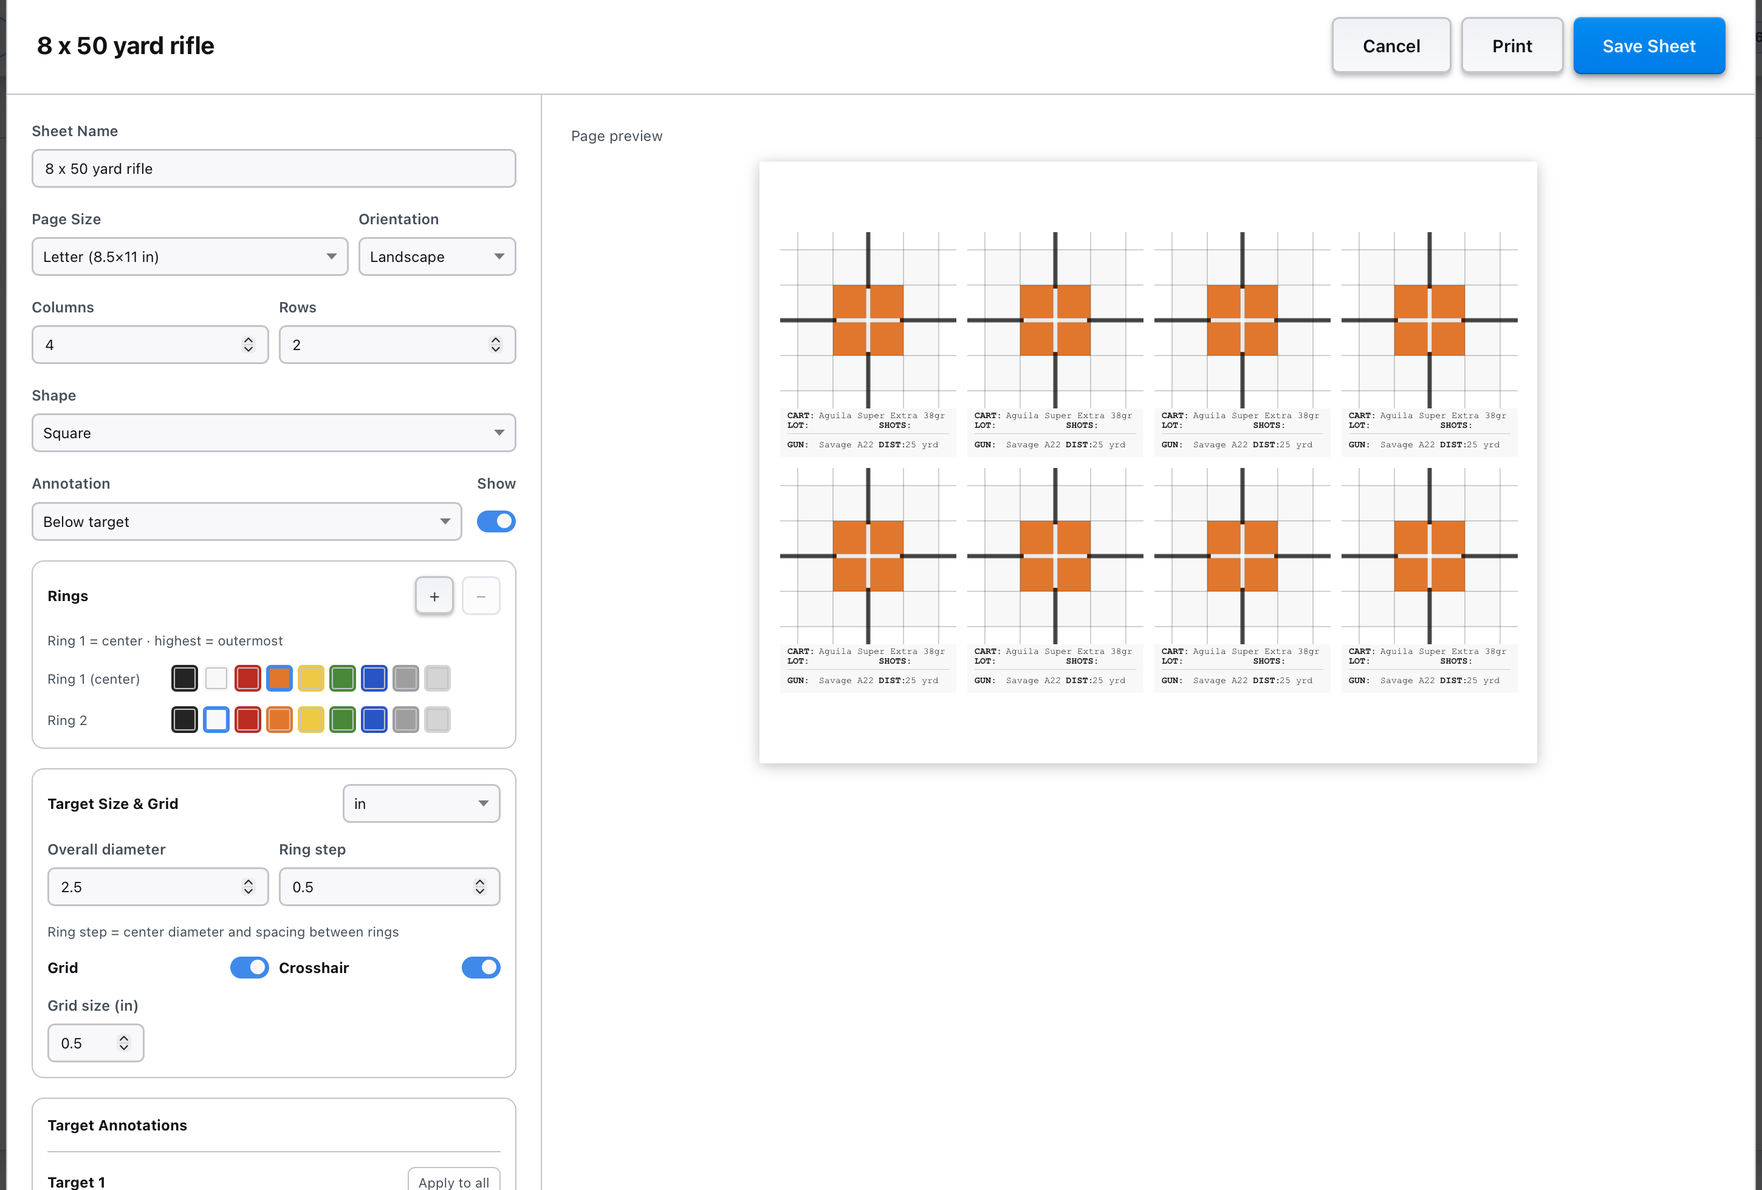
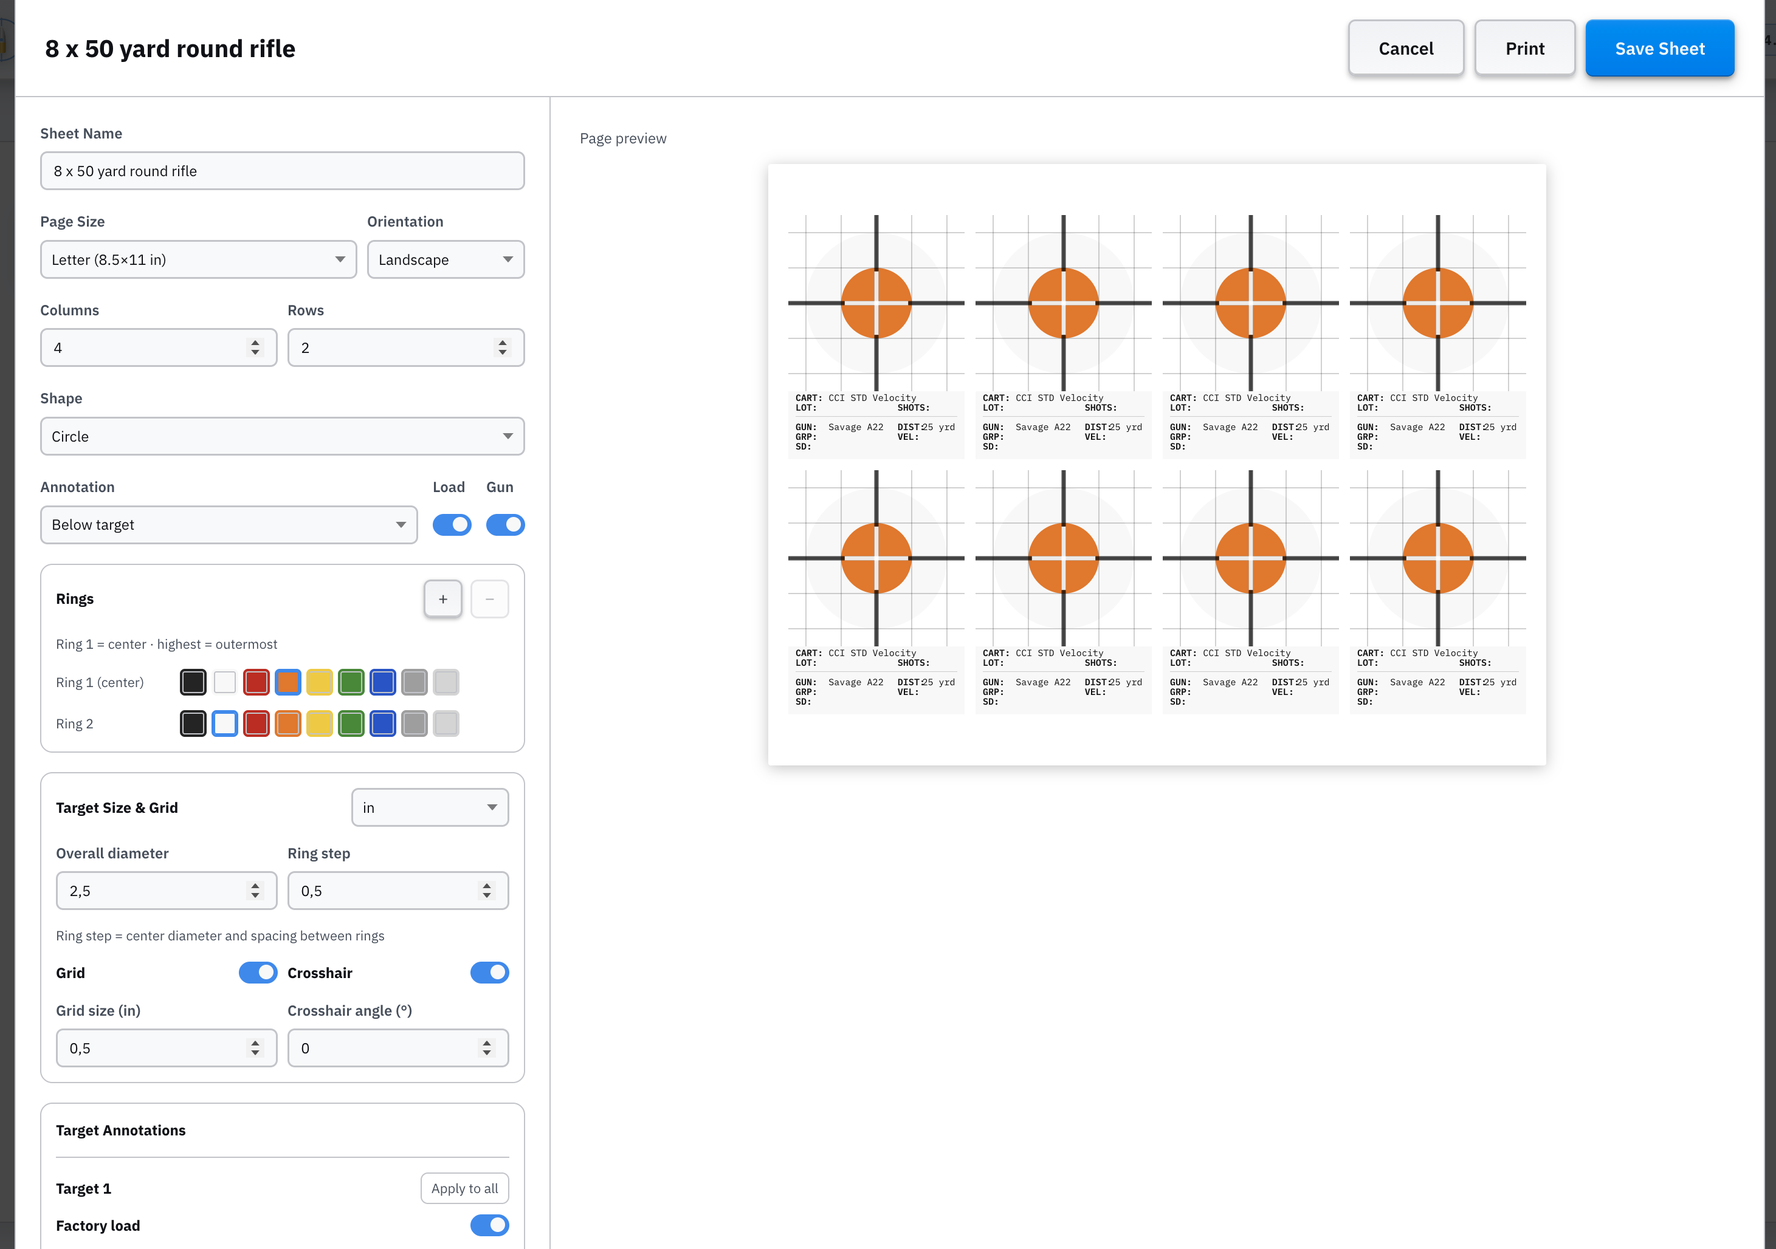
Added shotgun information and target generator filter gun and ammo

diff --git a/README.md b/README.md
@@ -1,4 +1,4 @@
-# Reloading Tracker 2.13.1: User Guide
+# Reloading Tracker 2.14.2: User Guide
 
 Reloading Tracker is your complete bench-to-range companion. It starts as a production log: define your loads, record every pressing session with a unique lot number, and print a label for every box on your shelf. And it grows with you from there.
 
@@ -7,7 +7,7 @@ Manage a shared component inventory, work up new loads with a structured charge 
 If you also care about the economics, the app can do that too. Compare the cost of your reloads against factory ammunition, track your progress toward break-even after equipment investment, and get a side-by-side cost breakdown across any combination of loads. Totally optional though -- plenty of reloaders just want the log and the data.
 
 
-> **DOWNLOAD:** A desktop version is available from the releases page: [**latest version**](https://github.com/fmalpartida/reloading-cost-calculator/releases/tag/v2.13.1). All previous version are available [here](https://github.com/fmalpartida/reloading-cost-calculator/releases).
+> **DOWNLOAD:** A desktop version is available from the releases page: [**latest version**](https://github.com/fmalpartida/reloading-cost-calculator/releases/tag/v2.14.2). All previous version are available [here](https://github.com/fmalpartida/reloading-cost-calculator/releases).
 
 
 Want to try it out first?
@@ -44,6 +44,7 @@ Enjoying Reloading Tracker? Every cup of coffee you send my way helps keep the p
    - [Load Status](#load-status)
    - [Default Taxes & Fees](#24-default-taxes--fees)
    - [Charge Workup (Load Development)](#25-charge-workup-load-development)
+   - [Shotshells](#26-shotshells)
 3. [My Components](#3-my-components)
    - [Adding a Component](#31-adding-a-component)
    - [Managing Components](#32-managing-components)
@@ -165,7 +166,7 @@ The application has seven main tabs accessible from the navigation bar at the to
 | Tab | Purpose |
 |-----|---------|
 | **My Ammo** | Library of all your ammo entries: reloads and factory |
-| **My Components** | Global catalog of reloading components: powders, primers, bullets, and brass |
+| **My Components** | Global catalog of reloading components: powders, primers, bullets, and brass, plus hulls, wads, shot, and slugs for shotshells |
 | **Firearms** | Registry of your firearm profiles: type, caliber, action, barrel, and twist data, plus a photo, serial number, price, and mounted optic details |
 | **Journal** | Log pressing sessions with auto-incrementing lot numbers, dates, quantities, and notes |
 | **Range Log** | Record range sessions: firearm, distance, lots fired, round counts, performance notes |
@@ -196,7 +197,7 @@ Move the tabs in the application to customize your workflow. Hide those parts of
 
 ## 2. My Ammo
 
-The **My Ammo** tab is where you build and maintain your ammunition library. Entries are grouped by type: reloads first, then factory ammo (sorted cheapest to most expensive within each group). Each group has a colored section header with a **+** button to add a new entry of that type directly.
+The **My Ammo** tab is where you build and maintain your ammunition library. Entries are grouped by type: reloads first, then factory ammo (sorted cheapest to most expensive within each group). Each group has a colored section header with a **+** button to add a new entry of that type directly. Within each group, entries are split into **Handgun**, **Rifle**, and **Shotgun** categories, with anything that can't be placed under **Uncategorized**.
 
 ![Screenshot: My Ammo tab showing reload and factory cards](./images/my-ammo.png)
 
@@ -207,6 +208,8 @@ Click **Add Ammo** in the top-right corner of the My Ammo tab, or click the **+*
 **Ammo Information**
 - **Name**: identifies the cartridge. Required.
 - **Load Type**: Reload or Factory.
+- **Ammo Class**: Metallic Cartridge or Shotshell. Picking Shotshell switches the form to shotshell components, see [Shotshells](#26-shotshells).
+- **Category**: Handgun, Rifle, or Shotgun. Groups the entry in My Ammo and narrows the caliber list to that category. It fills in from the caliber until you pick one yourself.
 - **Status**: the development state of the load. See [Load Status](#load-status) below.
 - **Caliber**: the cartridge designation (e.g. *9mm Luger*, *.308 Win*). This is added when defining the bullet.
 - **COAL**: cartridge overall length for this load. Printed on the lot label.
@@ -428,6 +431,33 @@ Click **Apply to All** to update every existing entry in your library with the c
 
 You can also reset taxes to defaults on a per-entry basis using the **Reset to defaults** link inside the Editor.
 
+### 2.6 Shotshells
+
+Set **Ammo Class** to **Shotshell** in the Editor to track shotgun reloads or factory shells. The **Caliber** field becomes **Gauge** (*12 ga*, *20 ga*, *.410 bore*, and so on), and two more fields appear: **Shell Length** (e.g. *2-3/4"* or *70 mm*) and **Projectile**, which is **Shot**, **Buckshot**, or **Slug**.
+
+**Reloaded shotshells**
+
+The reload form swaps the cartridge sections for shotshell ones:
+
+- **Powder** and **Primers** work exactly as for metallic loads.
+- **Shot / Buckshot** (shot and buckshot loads): description, material (lead, plated lead, steel, bismuth, tungsten), shot size, pellet count for buckshot, price per lb or kg, and the **Payload** per shell. Payload is in ounces for Imperial and grams for Metric, the way US and European manuals list it.
+- **Slug** (slug loads): description, weight in grains, price, and the quantity that price covers.
+- **Wads**: description, type (plastic, fiber, custom), price, and the quantity that price covers.
+- **Hulls**: replaces Brass / Cases, with the same price, quantity, and times-reloaded fields.
+- **Crimp** and **Published Velocity** are optional recipe notes. COAL, CBTO, and the Charge Ladder don't apply to shotshells and are hidden.
+
+Hull, wad, shot, and slug can all be picked from My Components like any other component (see [3.3](#33-linking-inventory-to-loads)). Hulls, wads, and slugs saved with a gauge only show up for loads of that gauge. The cost breakdown on the card and in the Live Preview lists the shot, wad, and hull cost per shell.
+
+<!-- IMAGE NEEDED: images/shotshell-editor.png, Editor with Ammo Class set to Shotshell showing the Shot, Wads, and Hulls sections -->
+
+**Factory shotshells**
+
+Factory entries take the same gauge, shell length, and projectile, plus optional payload, shot material and size, pellet count, slug weight, **Dram Equivalent**, and **Velocity**. Pricing, taxes, and stock work as for any factory ammo (see [2.2](#22-adding-a-factory-ammo-entry)).
+
+<!-- IMAGE NEEDED: images/shotshell-card.png, expanded shotshell card in My Ammo showing shot, wad, and hull costs -->
+
+> Shotshell recipes are tested as an exact combination of hull, primer, powder, wad, and payload. Don't swap any one of them without published data for the new combination.
+
 ---
 
 ## 3. My Components
@@ -436,7 +466,7 @@ The **My Components** tab is a global catalog of reloading components. Instead o
 
 ![Screenshot: My Components tab showing grouped components with filter tags](./images/my-inventory.png)
 
-Components are organised into four types: **Powder**, **Primer**, **Bullet**, and **Brass**. They are displayed in grouped sections, each with a colored left-border accent that matches the component's icon.
+Components are organised into eight types: **Powder**, **Primer**, **Bullet**, and **Brass** for cartridges, plus **Hull**, **Wad**, **Shot**, and **Slug** for shotshells. They are displayed in grouped sections, each with a colored left-border accent that matches the component's icon.
 
 **Filter tags** at the top of the list let you narrow the view to a single type at a glance; click a tag to activate it, click again to clear the filter.
 
@@ -453,7 +483,7 @@ Click **Add Component** in the top-right corner, or click the small **+** button
 The form is organised into labeled sections - **Basics** for every type (plus **Specs** and **Pricing** for bullets), and for brass, **Consistency & Fit** and **Annealing** on top of Basics - followed by a shared **Stock** section at the end.
 
 **Component Type**  
-Choose one of the four types using the selector buttons at the top of the form. Once a component is saved the type cannot be changed; duplicate it and delete the original if you need a different type.
+Choose one of the eight types using the selector buttons at the top of the form. Once a component is saved the type cannot be changed; duplicate it and delete the original if you need a different type.
 
 **Name / Description** *(required)*  
 A descriptive label, e.g. *Titegroup*, *CCI 500 Small Pistol*, *124gr FMJ RN*, *Mixed once-fired 9mm*.
@@ -462,14 +492,22 @@ A descriptive label, e.g. *Titegroup*, *CCI 500 Small Pistol*, *124gr FMJ RN*, *
 Upload a photo of the component (HEIC photos from iPhone are converted automatically). It's resized and compressed for storage, then shown as a thumbnail on the card or in the table's Photo column - see [3.2](#32-managing-components) below. Click **Remove** to clear it.
 
 **Price** *(required)*  
-The price you paid for the component. For powders this is the price per pound (Imperial) or per kilogram (Metric). For all other types it is the total price for the quantity below.
+The price you paid for the component. For powder and shot this is the price per pound (Imperial) or per kilogram (Metric). For all other types it is the total price for the quantity below.
 
 **Quantity / Weight** *(required)*  
-- *Powder*: the weight the price covers (lbs or kg). A 1 lb jug entered at $28.99/1 lb stores as $28.99/lb; a 4 lb jug entered at $89.99/4 lb also resolves to the correct per-lb rate when used in a load.
-- *Primer, Bullet, Brass*: the number of units the price covers (e.g. 100 primers for $15.99).
+- *Powder, Shot*: the weight the price covers (lbs or kg). A 1 lb jug entered at $28.99/1 lb stores as $28.99/lb; a 4 lb jug entered at $89.99/4 lb also resolves to the correct per-lb rate when used in a load.
+- *Primer, Bullet, Brass, Hull, Wad, Slug*: the number of units the price covers (e.g. 100 primers for $15.99).
 
-**Measurement System** *(powder only)*  
-Select **Imperial (lb)** or **Metric (kg)**. This carries through to any load that links to this powder.
+**Measurement System** *(powder and shot)*  
+Select **Imperial (lb)** or **Metric (kg)**. This carries through to any load that links to this component.
+
+**Shotshell specs** *(optional)*  
+- *Hull*: **Gauge**, **Shell Length**, and **Times Reloaded** (required, same as brass).
+- *Wad*: **Gauge** and **Wad Type**.
+- *Shot*: **Material** and **Shot Size**.
+- *Slug*: **Gauge** and **Weight (grains)**.
+
+Setting a gauge on a hull, wad, or slug limits it to loads of that gauge in the Editor's inventory dropdown.
 
 **OAL (Overall Length)** *(bullet only, optional)*  
 The bullet's overall length, with a unit dropdown (**in** or **mm**) next to it. The unit defaults to your app's Imperial/Metric setting; switching it converts the number you've already entered instead of just relabeling it, e.g. *1.169 in* becomes *29.6926 mm*.
@@ -492,8 +530,8 @@ Optional free-text field for suppliers or any other reference.
 
 **Stock on hand** *(optional)*  
 The current quantity you have in stock. The unit depends on the component type:
-- *Powder*: weight in lb or kg (matching the measurement system you selected)
-- *Primer, Bullet, Brass*: individual count
+- *Powder, Shot*: weight in lb or kg (matching the measurement system you selected)
+- *Primer, Bullet, Brass, Hull, Wad, Slug*: individual count
 
 Leave this field blank if you do not want to track stock for this component. Only components with a stock quantity set are visible to the journal deduction feature.
 
@@ -532,7 +570,7 @@ Each component card has three action buttons:
 
 ![Screenshot: Inventory card action buttons](./images/inventory-card-actions.png)
 
-In **Table view**, the **Stock** column shows the current quantity on hand for each component, formatted with a unit suffix (*primers*, *rounds*, *cases*, *lb*, or *kg*). Components with no stock quantity set show a dash (-). A **Low** badge appears in the same cell when stock is at or below the threshold. The **Lot #** column next to it shows each component's lot number, or a dash when none is set.
+In **Table view**, the **Stock** column shows the current quantity on hand for each component, formatted with a unit suffix (*primers*, *rounds*, *cases*, *hulls*, *wads*, *slugs*, *lb*, or *kg*). Components with no stock quantity set show a dash (-). A **Low** badge appears in the same cell when stock is at or below the threshold. The **Lot #** column next to it shows each component's lot number, or a dash when none is set.
 
 For brass, an **Info** column shows the same Consistency & Fit / Annealing icon buttons as the card view, keeping the table compact instead of adding a separate column per field.
 
@@ -550,11 +588,11 @@ Components with a photo (see [3.1](#31-adding-a-component)) show it as a thumbna
 
 **Cash-in-hand totals**
 
-Each category header (Powders, Primers, Bullets, Brass) shows that category's total stock value (quantity on hand × price) next to its item count. A grand total across all categories appears at the top of the page next to the filter tags. Both use your configured currency symbol and update automatically as stock levels or prices change.
+Each category header (Powders, Primers, Bullets, Brass, and so on) shows that category's total stock value (quantity on hand × price) next to its item count. A grand total across all categories appears at the top of the page next to the filter tags. Both use your configured currency symbol and update automatically as stock levels or prices change.
 
 ### 3.3 Linking Inventory to Loads
 
-When editing or creating a reload in the **Editor** tab, each component section (Powder, Primers, Bullets, Brass) has a **Select from inventory** dropdown above the manual input fields. Choosing an item from that dropdown fills all the related fields automatically and marks the component with a **linked badge**.
+When editing or creating a reload in the **Editor** tab, each component section (Powder, Primers, Bullets, Brass, and for shotshells Shot, Slug, Wads, Hulls) has a **Select from inventory** dropdown above the manual input fields. Choosing an item from that dropdown fills all the related fields automatically and marks the component with a **linked badge**.
 
 ![Screenshot: Load editor with inventory dropdown and linked badge](./images/inventory-link-badge.png)
 
@@ -594,7 +632,7 @@ Click **Add Firearm** in the top-right corner of the Firearms tab. The dialog is
 | **Name** | Yes | A descriptive label for the firearm, e.g. *Remington 700 SPS*, *Glock 17 Gen 5*. |
 | **Firearm Type** | No | Broad category: **Rifle**, **Handgun**, **Shotgun**, or **Other**. |
 | **Action Type** | No | Operating mechanism: **Bolt**, **Semi-Auto**, **Lever**, **Pump**, **Single Shot**, **Revolver**, or **Other**. |
-| **Caliber** | No | The cartridge the firearm is chambered in, e.g. *.308 Win*, *9mm Luger*. Used for grouping and caliber filter chips. |
+| **Caliber** | No | The cartridge the firearm is chambered in, e.g. *.308 Win*, *9mm Luger*, *12 ga*. The list follows the Firearm Type (handgun, rifle, or shotgun calibers). Used for grouping and caliber filter chips. |
 | **Barrel Length** | No | Free text, e.g. *24 in*, *16.5"*. |
 | **Twist Rate** | No | Rifling twist rate, e.g. *1:10*, *1:8*. Relevant for bullet stabilisation in load development. |
 | **Photo** | No | Upload a photo of the firearm (HEIC photos from iPhone are converted automatically). It's resized and compressed for storage, then shown as a thumbnail everywhere the firearm appears - see 4.4 and 4.5 below. Click **Remove** to clear it. |
@@ -700,6 +738,10 @@ Click **Log Entry** at the top right of the entries card to open the session dia
 
 The next available lot number is shown at the top of the dialog and is assigned automatically when you save. Click **Save Entry** to log the session. The new entry appears at the top of the list and the lot counter advances.
 
+For a shotshell load the dialog adapts: COAL and CBTO overrides are hidden, **Brass override** becomes **Hull override** (picked from your hulls), and the lot fields become powder, primer, shot (or slug), wad, and hull.
+
+<!-- IMAGE NEEDED: images/shotshell-journal.png, Journal entry dialog for a shotshell load showing the Hull override and shotshell lot fields -->
+
 Component lots are only filled in automatically for new entries. Entries logged before this feature existed stay blank, since today's lots may not be the ones you used back then; edit an entry to add them by hand if you know them.
 
 ![Screenshot: journal edit dialog showing the charge, COAL, and brass override fields](./images/journal-editor.png)
@@ -728,10 +770,11 @@ When a reload entry is linked to components in My Components that have a **Stock
 
 | Component | Amount deducted |
 |-----------|----------------|
-| Powder | Weight used: `(rounds × charge in grains) ÷ 7000` lb, or `÷ 15432.4` kg for metric. If the entry has a charge override, that value is used instead of the recipe default. |
-| Primer | 1 per round (`quantity`) |
-| Bullet | 1 per round (`quantity`) |
-| Brass | 1 per round (`quantity`). If the entry has a **Brass override**, the matching inventory item is found by name rather than by the linked ID. |
+| Powder | Weight used: `(rounds × charge in grains) ÷ 7000` lb, or `(rounds × charge in grams) ÷ 1000` kg for metric. If the entry has a charge override, that value is used instead of the recipe default. |
+| Shot | Weight used: `(shells × payload in oz) ÷ 16` lb, or `(shells × payload in grams) ÷ 1000` kg for metric. |
+| Primer, Wad | 1 per round (`quantity`) |
+| Bullet, Slug | 1 per round (`quantity`) |
+| Brass, Hull | 1 per round (`quantity`). If the entry has a **Brass** or **Hull override**, the matching inventory item is found by name rather than by the linked ID. |
 
 After a successful deduction, the button changes to a **✓ Stock** badge. Click the badge to **return** the stock (undo the deduction). This is useful if you made a mistake or need to adjust quantities before re-deducting.
 
@@ -1227,7 +1270,7 @@ Click **New Target Sheet** in the page header to open the designer with a blank 
 | **Orientation** | Portrait or Landscape. |
 | **Columns × Rows** | Number of targets across and down the page (1–4 each). A 2 × 3 layout prints 6 targets per page. |
 | **Shape** | Target shape: Circle, Square, or Diamond. |
-| **Show Annotation** | Whether to print load/firearm annotation labels on each target slot. |
+| **Annotation: Load / Gun** | Two toggles: **Load** prints the load details (lot, components, shots) and **Gun** prints the firearm, distance, and result fields. Turn off both to print a bare target. |
 | **Annotation position** | Whether annotation text appears inside the rings or outside below the target. |
 
 Click **Save Sheet** to save or **Cancel** to discard changes. The **Print** button in the designer header opens the print dialog directly from the editor.
@@ -1263,7 +1306,7 @@ Enable **Show Grid** to print a background grid over each target; useful as a vi
 
 #### 7.3.4 Annotations
 
-When **Show Annotation** is enabled, each target slot on the sheet has an independent annotation block. For a 2 × 3 sheet, six annotation sections appear in the designer, one per slot, labelled *Target 1*, *Target 2*, and so on. Fill these in before printing so the load and firearm information is already on the sheet when you pull it off the printer.
+When either annotation toggle (**Load** or **Gun**) is on, each target slot on the sheet has an independent annotation block. For a 2 × 3 sheet, six annotation sections appear in the designer, one per slot, labelled *Target 1*, *Target 2*, and so on. Fill these in before printing so the load and firearm information is already on the sheet when you pull it off the printer.
 
 Each annotation has a **mode toggle**:
 
@@ -1274,7 +1317,9 @@ Each annotation has a **mode toggle**:
 
 Firearm and Shots sit side by side in one row, directly above the matching Distance/Unit row, so the two line up.
 
-Group size, Avg velocity, and SD are **not** data-entry fields - they're not something you'd know before shooting. Instead they always print on the target as blank labelled fields (e.g. *GRP:*, *VEL:*, *SD:*) for you to fill in by hand at the range once you have the results.
+Group size, Avg velocity, and SD are **not** data-entry fields - they're not something you'd know before shooting. Instead they print with the gun details as blank labelled fields (e.g. *GRP:*, *VEL:*, *SD:*) for you to fill in by hand at the range once you have the results.
+
+The **Load** and **Gun** toggles control which part of the block prints, so you can keep the gun and result fields on a sheet without the load details, or the other way round. Text too long for its field, such as a long firearm name, is shortened with an ellipsis instead of running past the annotation box.
 
 **Filling multiple targets quickly**
 
